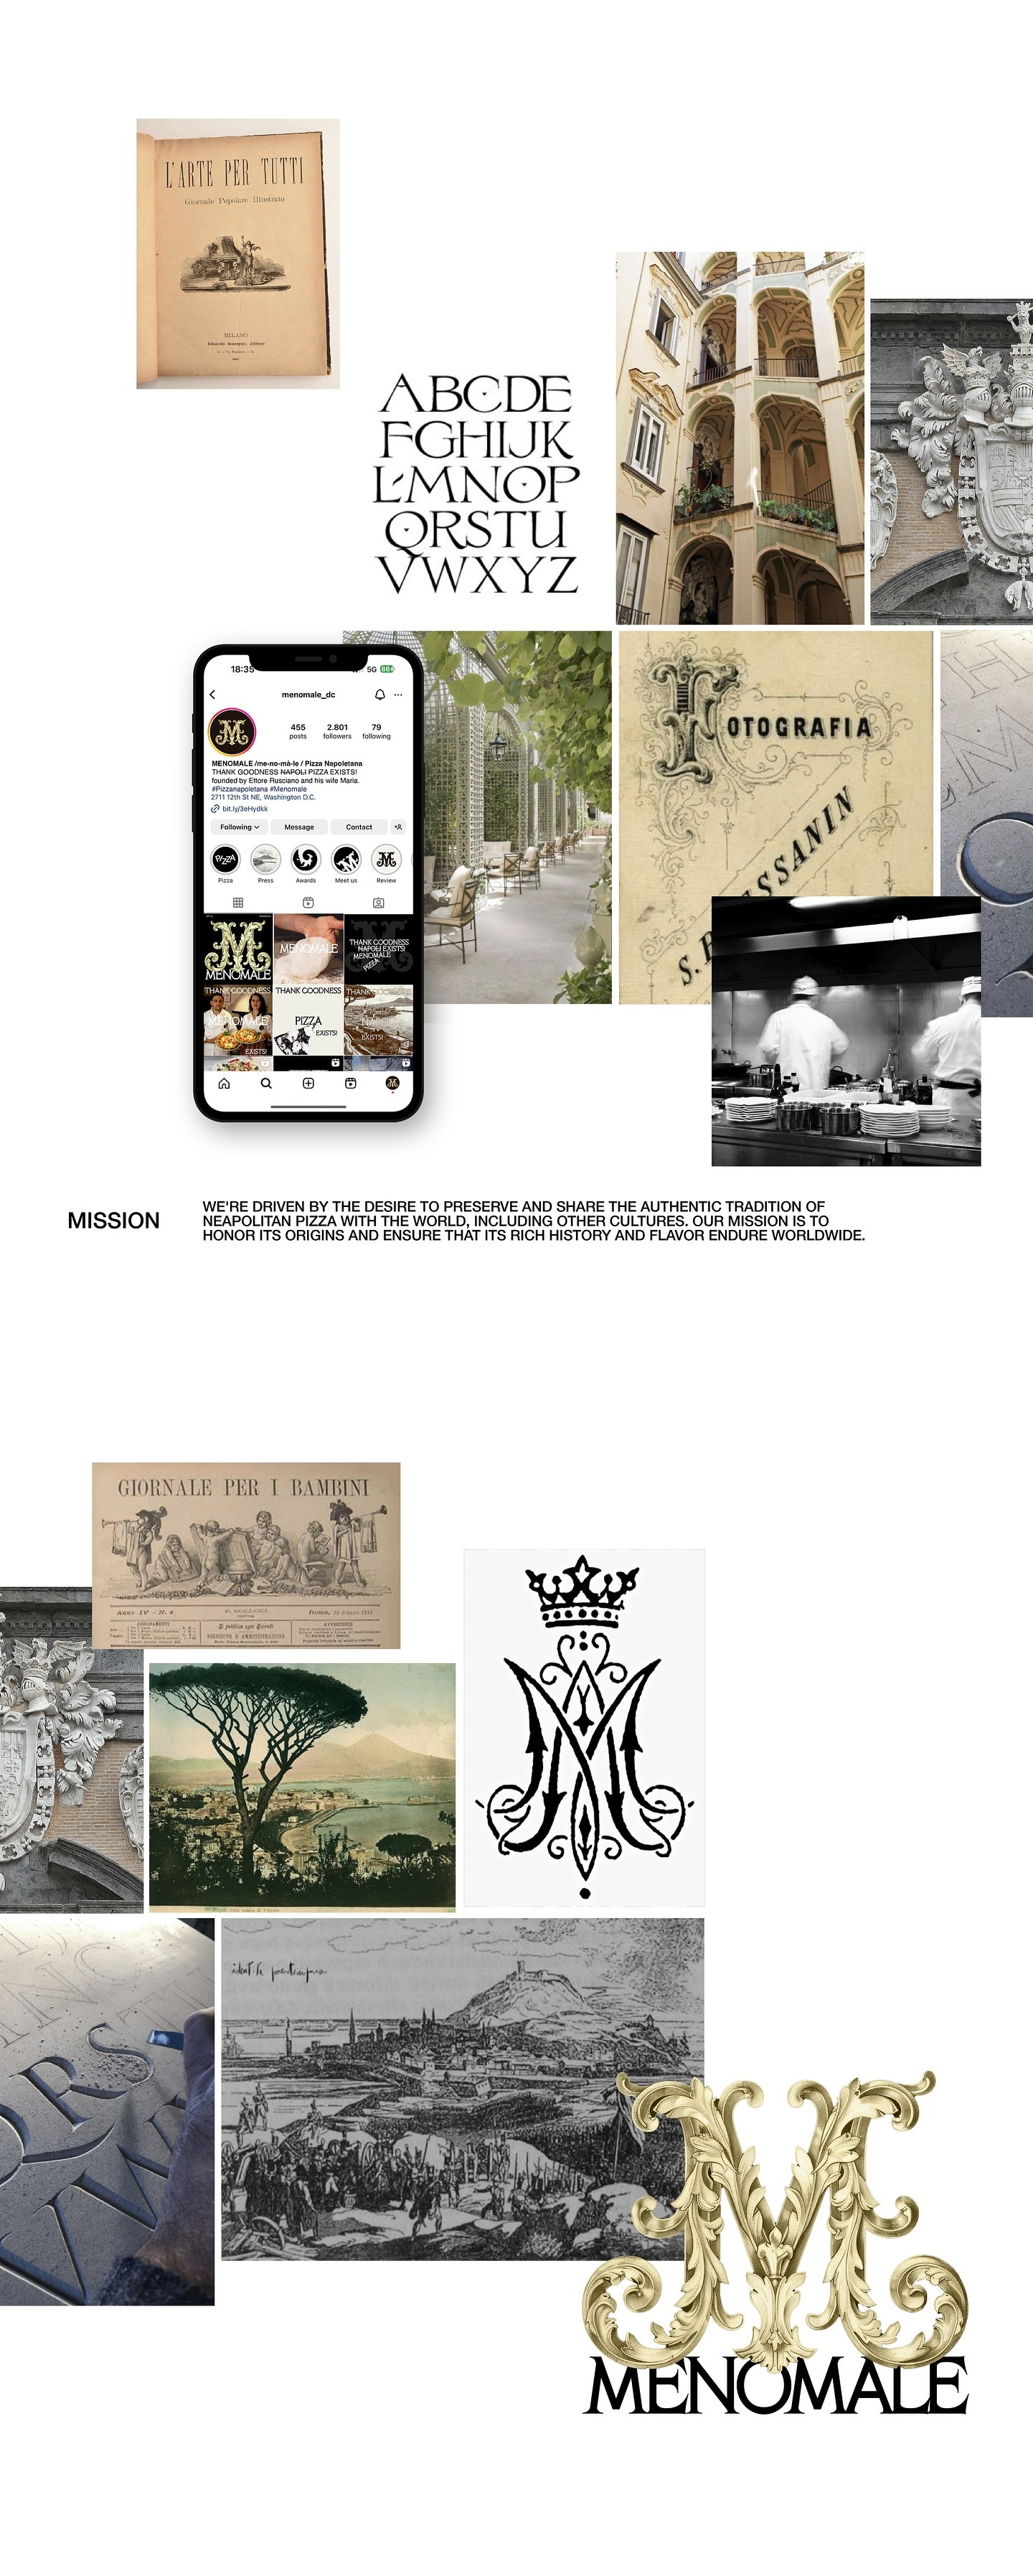
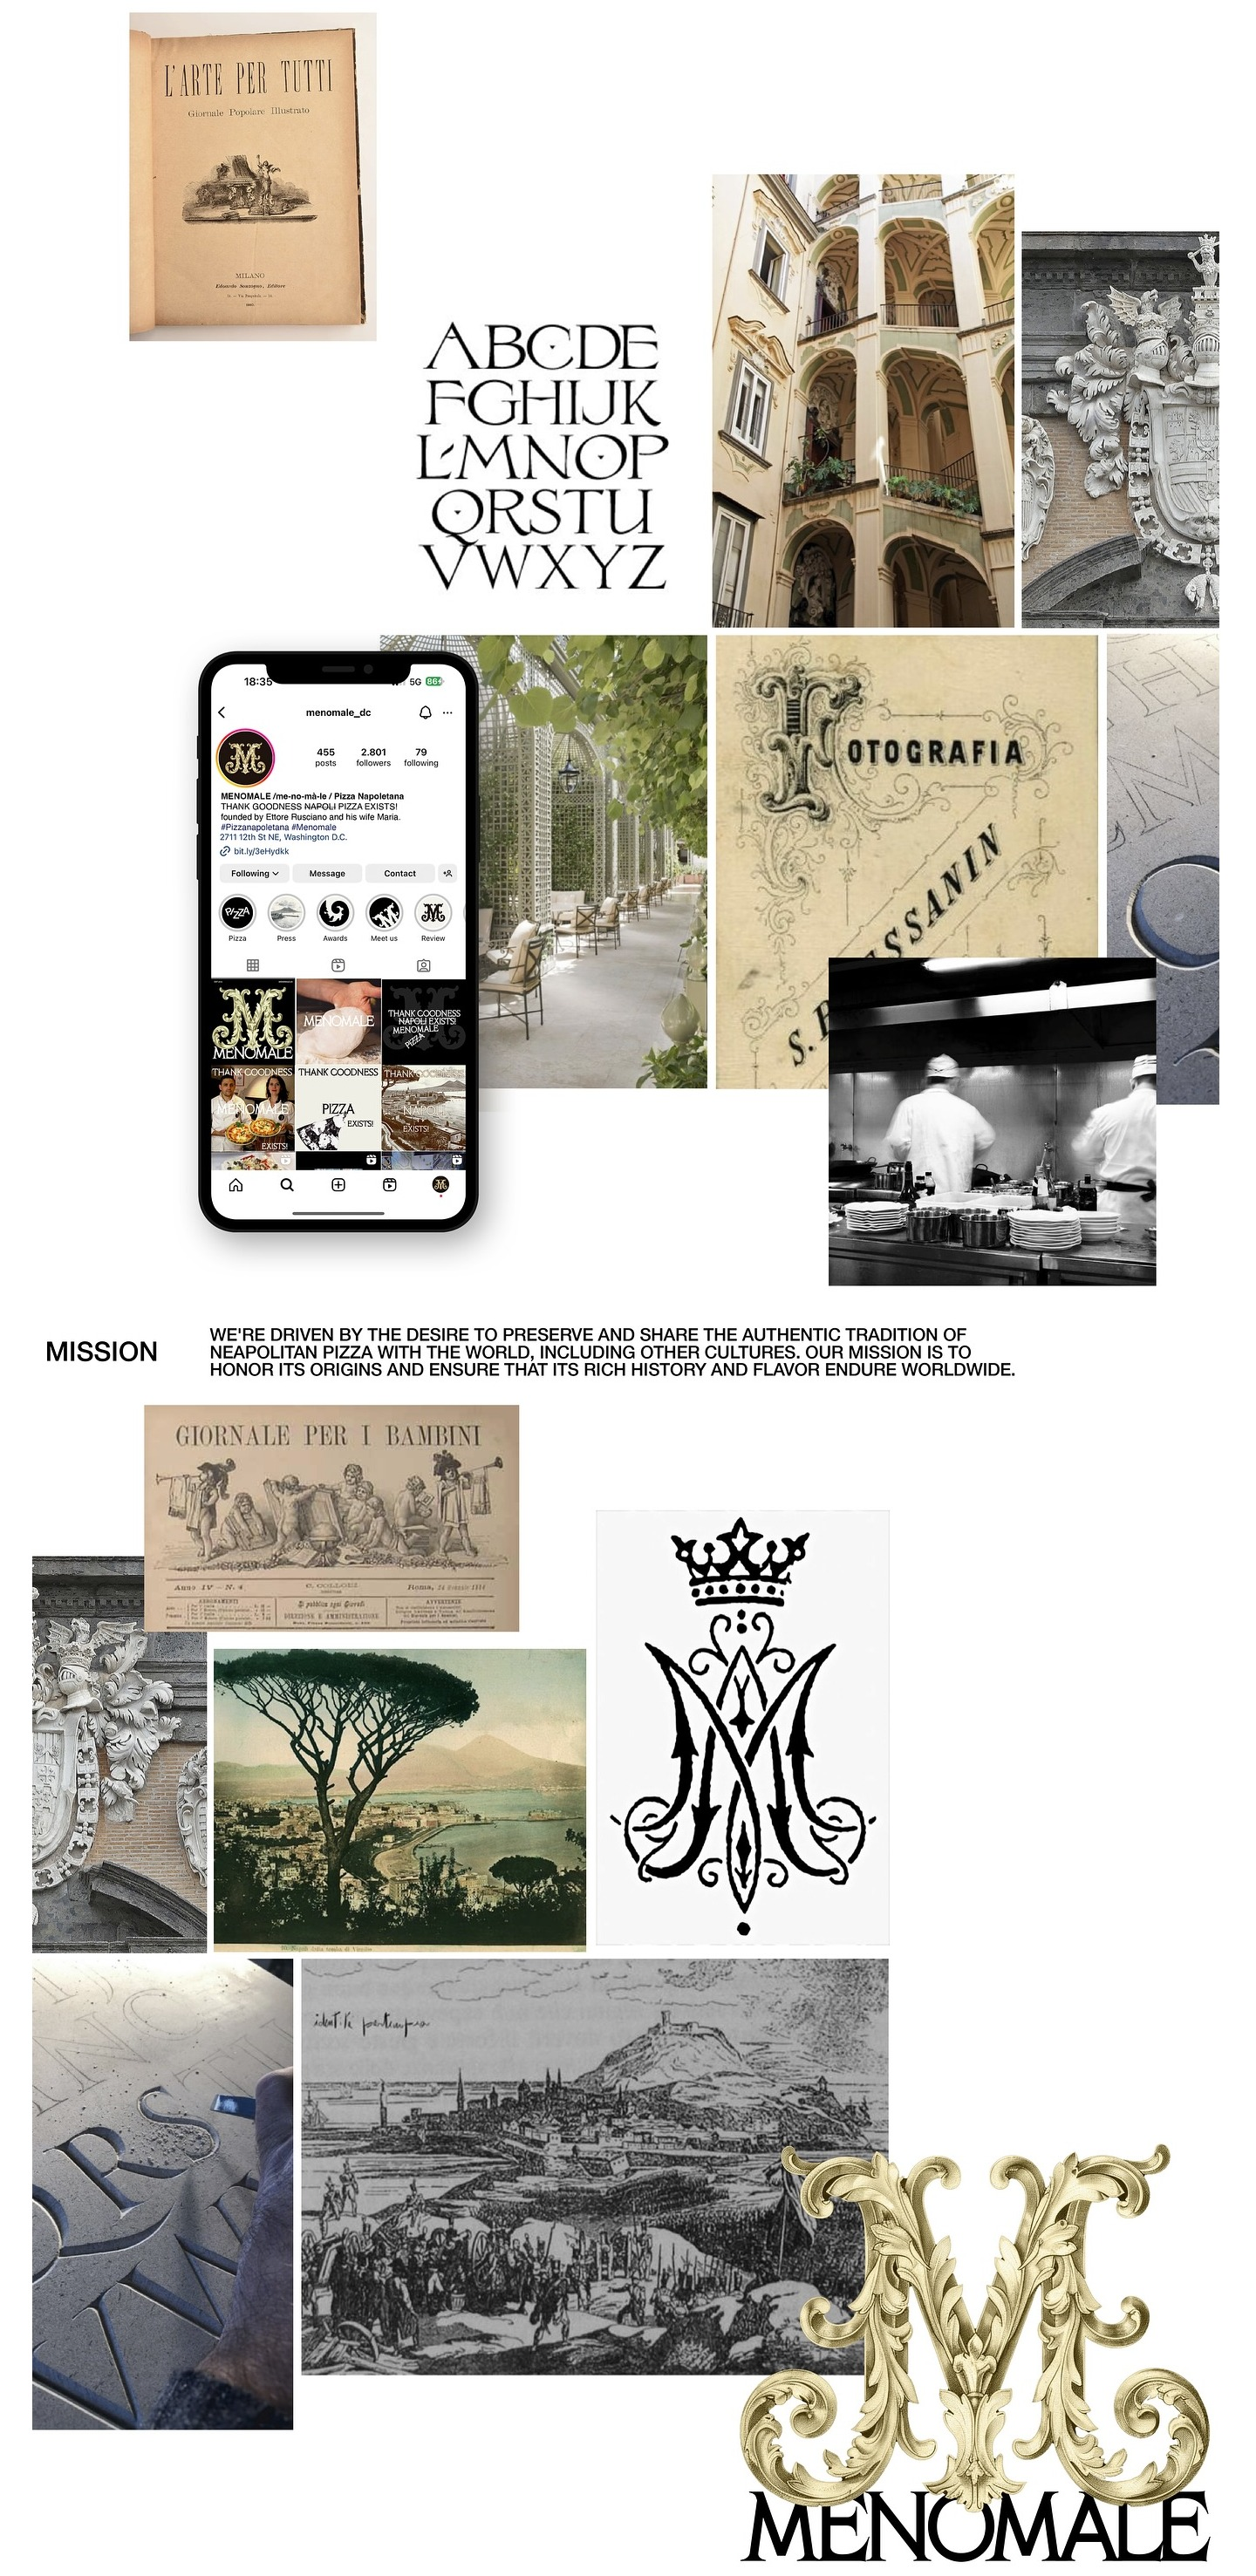
Merge Menomale moodboard slides into one seamless image.
Trim excess white margins from the two Instagram carousel slides before stacking so the mission board reads as a single continuous collage on the project page.

diff --git a/src/data/projects.ts b/src/data/projects.ts
@@ -228,7 +228,7 @@ export const projects: Project[] = [
         alt: 'Menomale moodboard — mission, custom alphabet, heritage and @menomale_dc profile',
         fit: 'contain',
         width: 1440,
-        height: 3590,
+        height: 2954,
       },
       {
         type: 'image',